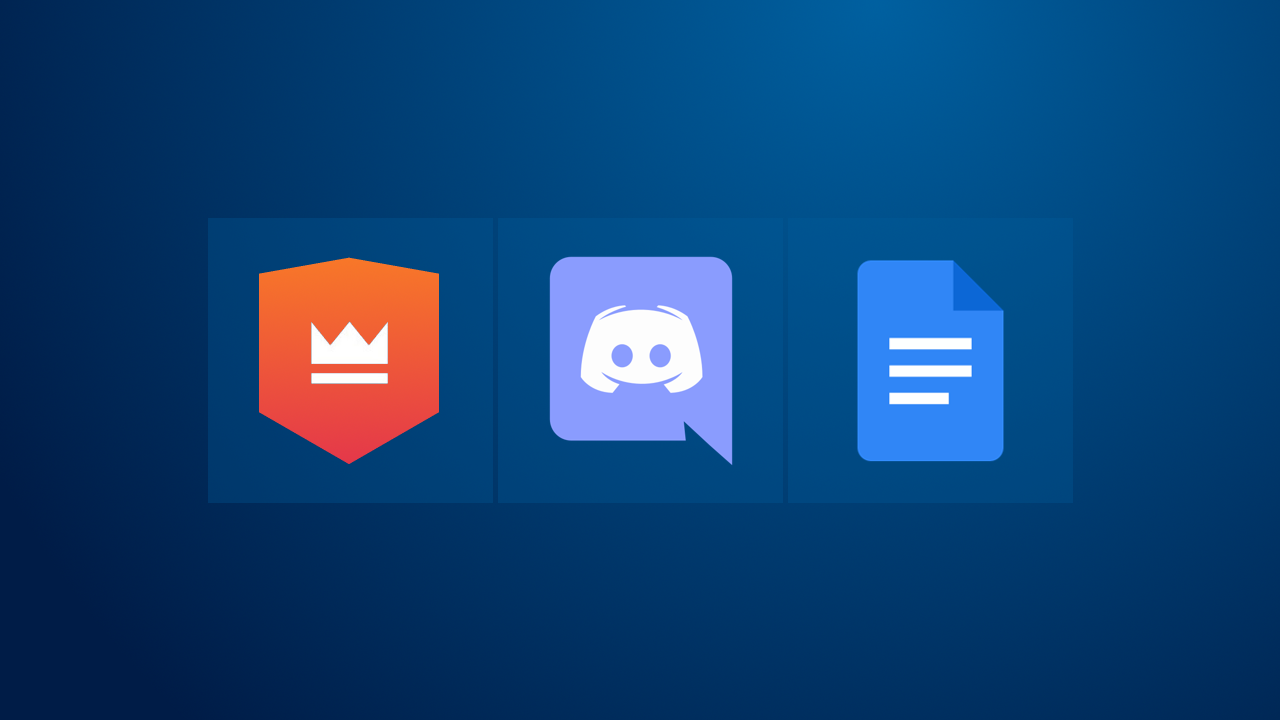
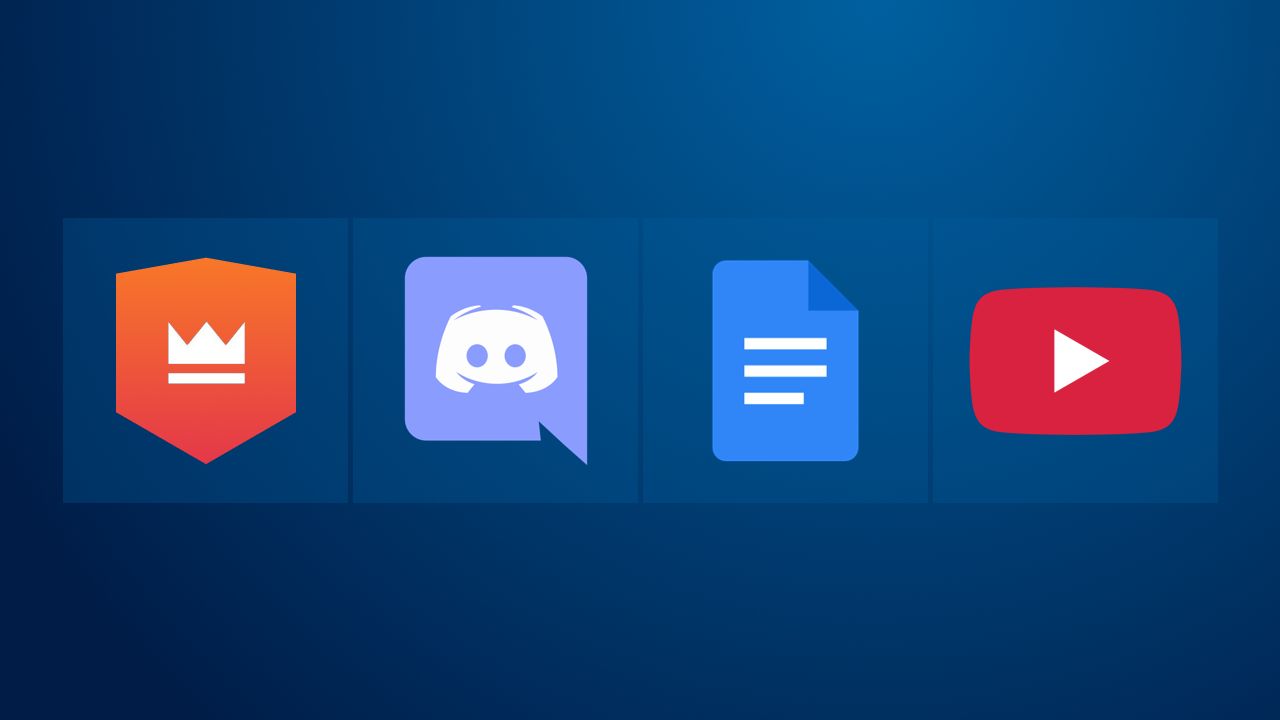
Added new link

Changed region(s): [[0.0938, 0.3361, 0.9375, 0.6417], [0.0312, 0.6722, 0.0625, 0.7028]]

diff --git a/csgo/index.html b/csgo/index.html
@@ -45,6 +45,8 @@
                         <p>–</p>
                         <p class="fulln">SEcS</p><p class="simplen">SEC</p>
                     </div>
+                    <a class="button" href="steam://connect/185.2.28.25:27020"><p class="full">▶ GOTV</p><p class="simple">▶</p></a>
+                    <a class="button" href="https://csgo.fastcup.net/match4049999"><p class="full">⚙ Fastcup</p><p class="simple">⚙</p></a>
                 </div>
             </div>
             <div class="results" id="resultsDiv" style="display:none;">
@@ -160,14 +162,6 @@
         <script src="script.js"></script>
         <div class="news">
             <div class="wrap">
-                <div class="item" style="background-image:url(pic/vitjazi.png);"></div>
-                <a onclick="up('vitj')">
-                    <div class="itemcontent">
-                        <p>Dažas izmaiņas formātā</p>
-                    </div>
-                </a>
-            </div>
-            <div class="wrap">
                 <div class="item" style="background-image:url(pic/fireworks.png);"></div>
                 <a onclick="up('start')">
                     <div class="itemcontent">
@@ -194,27 +188,6 @@
         </div>
     </section>
     <!-- Overlays -->
-    <div class="overlay" id="vitj">
-        <a onclick="down('vitj')" class="close"></a>
-        <div class="overlaycontent">
-            <h1 style="width:calc(100% - 40px); margin-bottom:20px;">Dažas izmaiņas formātā</h1>
-            <p>Pēc divām turnīra dienām vēlamies informēt par izmaiņām turnīra formātā un kalendārā, kā arī klarificēt dažus aktuālus jautājumus.</p>
-            <h1 style="margin-top:10px; width:calc(100% - 40px); margin-bottom:20px;">Izstājas komanda Vitjazi</h1>
-            <p>Aizvakar tikām informēti, ka komanda Vitjazi nav spējīgi savākt sastāvu un plāno izstāties. Šis tika galīgi apstiprināts vakar pēcpusdienā.</p>
-            <p>Līdz ar to, kalendārā mačus <span style="font-weight:500">Saule – Vitjazi</span> un <span style="font-weight:500">Vitjazi – Dullbrieži</span> aizstās mačs <span style="font-weight:500">Saule – Dullbrieži</span>.</p>
-            <p>Tas arī nozīmē, ka ceturtdaļfinālu tagad uzreiz sasniegs nevis 3, bet gan 4 komandas, un astotdaļfinālā piedalīsies nevis 10, bet 8 komandas.</p>
-            <p>Lai Vitjaziem vieglas smiltis!</p>
-            <h1 style="margin-top:10px; width:calc(100% - 40px); margin-bottom:20px;">Par maču Dullbrieži – Karthofel</h1>
-            <p>Vakar vienā no mačiem, Dullbrieži – Karthofel, pie rezultāta 12–14 nocrashoja Fastcup serveris. Diemžēl, Fastcup nav opcija atsākt maču no šāda punkta. Abas komandas savstarpēji piekrita pabeigt maču ar rezultātu 15–15.</p>
-            <p>Mēs ceram, ka šādi incidenti neatkārtosies, taču vēlamies arī klarificēt, ka ar šādām situācijām plānojam rīkoties pēc case-by-case principa, apsverot katra mača spēles situāciju un abu iesaistīto komandu viedokli.</p>
-            <h1 style="margin-top:10px; width:calc(100% - 40px); margin-bottom:20px;">Par Anticheat</h1>
-            <p>Pirms turnīra sākuma mēs uzskatījām, ka neviena no komandām visdrīzāk stingri nepieprasīs aizvadīt mačus ar Anticheat, apzinoties potenciālos uzstādīšanas sarežģījumus, taču pēc viena no vakardienas mačiem uzskatam svarīgu klarificēt:</p>
-            <p>Anticheat ir jābūt ieslēgtam pie jebkuras spēlējošās komandas pieprasījuma. Izņēmumus varam pieņemt tad, ja otra komanda ir spējīga skaidri pierādīt, ka Anticheat izraisa tehniskas problēmas, kas liedz spēlētājiem piedalīties mačā.</p>
-            <p>Detaļas par Fastcup izmantoto Anticheat var atrast <a href="https://gameguard.ac">Gameguard mājaslapā.</a></p>
-            <h1 style="margin-top:10px; width:calc(100% - 40px); margin-bottom:20px;">Spēlētāju role Discordā</h1>
-            <p>Vēlos palūgt tiem kapteiņiem, kuri to nav izdarījuši, atsūtīt man savu komandas biedru Discord usernamus privāti vai #pilniga-miskaste. Paldies tiem, kas to ir paveikuši!</p>
-        </div>
-    </div>
     <div class="overlay" id="start">
         <a onclick="down('start')" class="close"></a>
         <div class="overlaycontent">
@@ -248,6 +221,7 @@
             <p><a href="https://csgo.fastcup.net">Fastcup</a> – caur šo saitu komandas hosto savu savstarpējo maču.</p>
             <p><a href="https://discord.gg/duRTpMb">Discord serveris</a> – kapteiņi, spēlētāji, skatītāji un organizatori vienuviet vieglai komunikācijai.</p>
             <p><a href="https://docs.google.com/document/d/1aMK6W6FEWNDrTz_edaHruayvRqJezvp40-YPJOLGNvI/edit#">Turnīra nolikums</a> – pārskats par turnīra formātu.</p>
+            <p><a href="https://www.youtube.com/user/arturssablis">YouTube</a> – izslēgšanas turnīra maču tiešraides.</p>
         </div>
     </div>
 </body>
